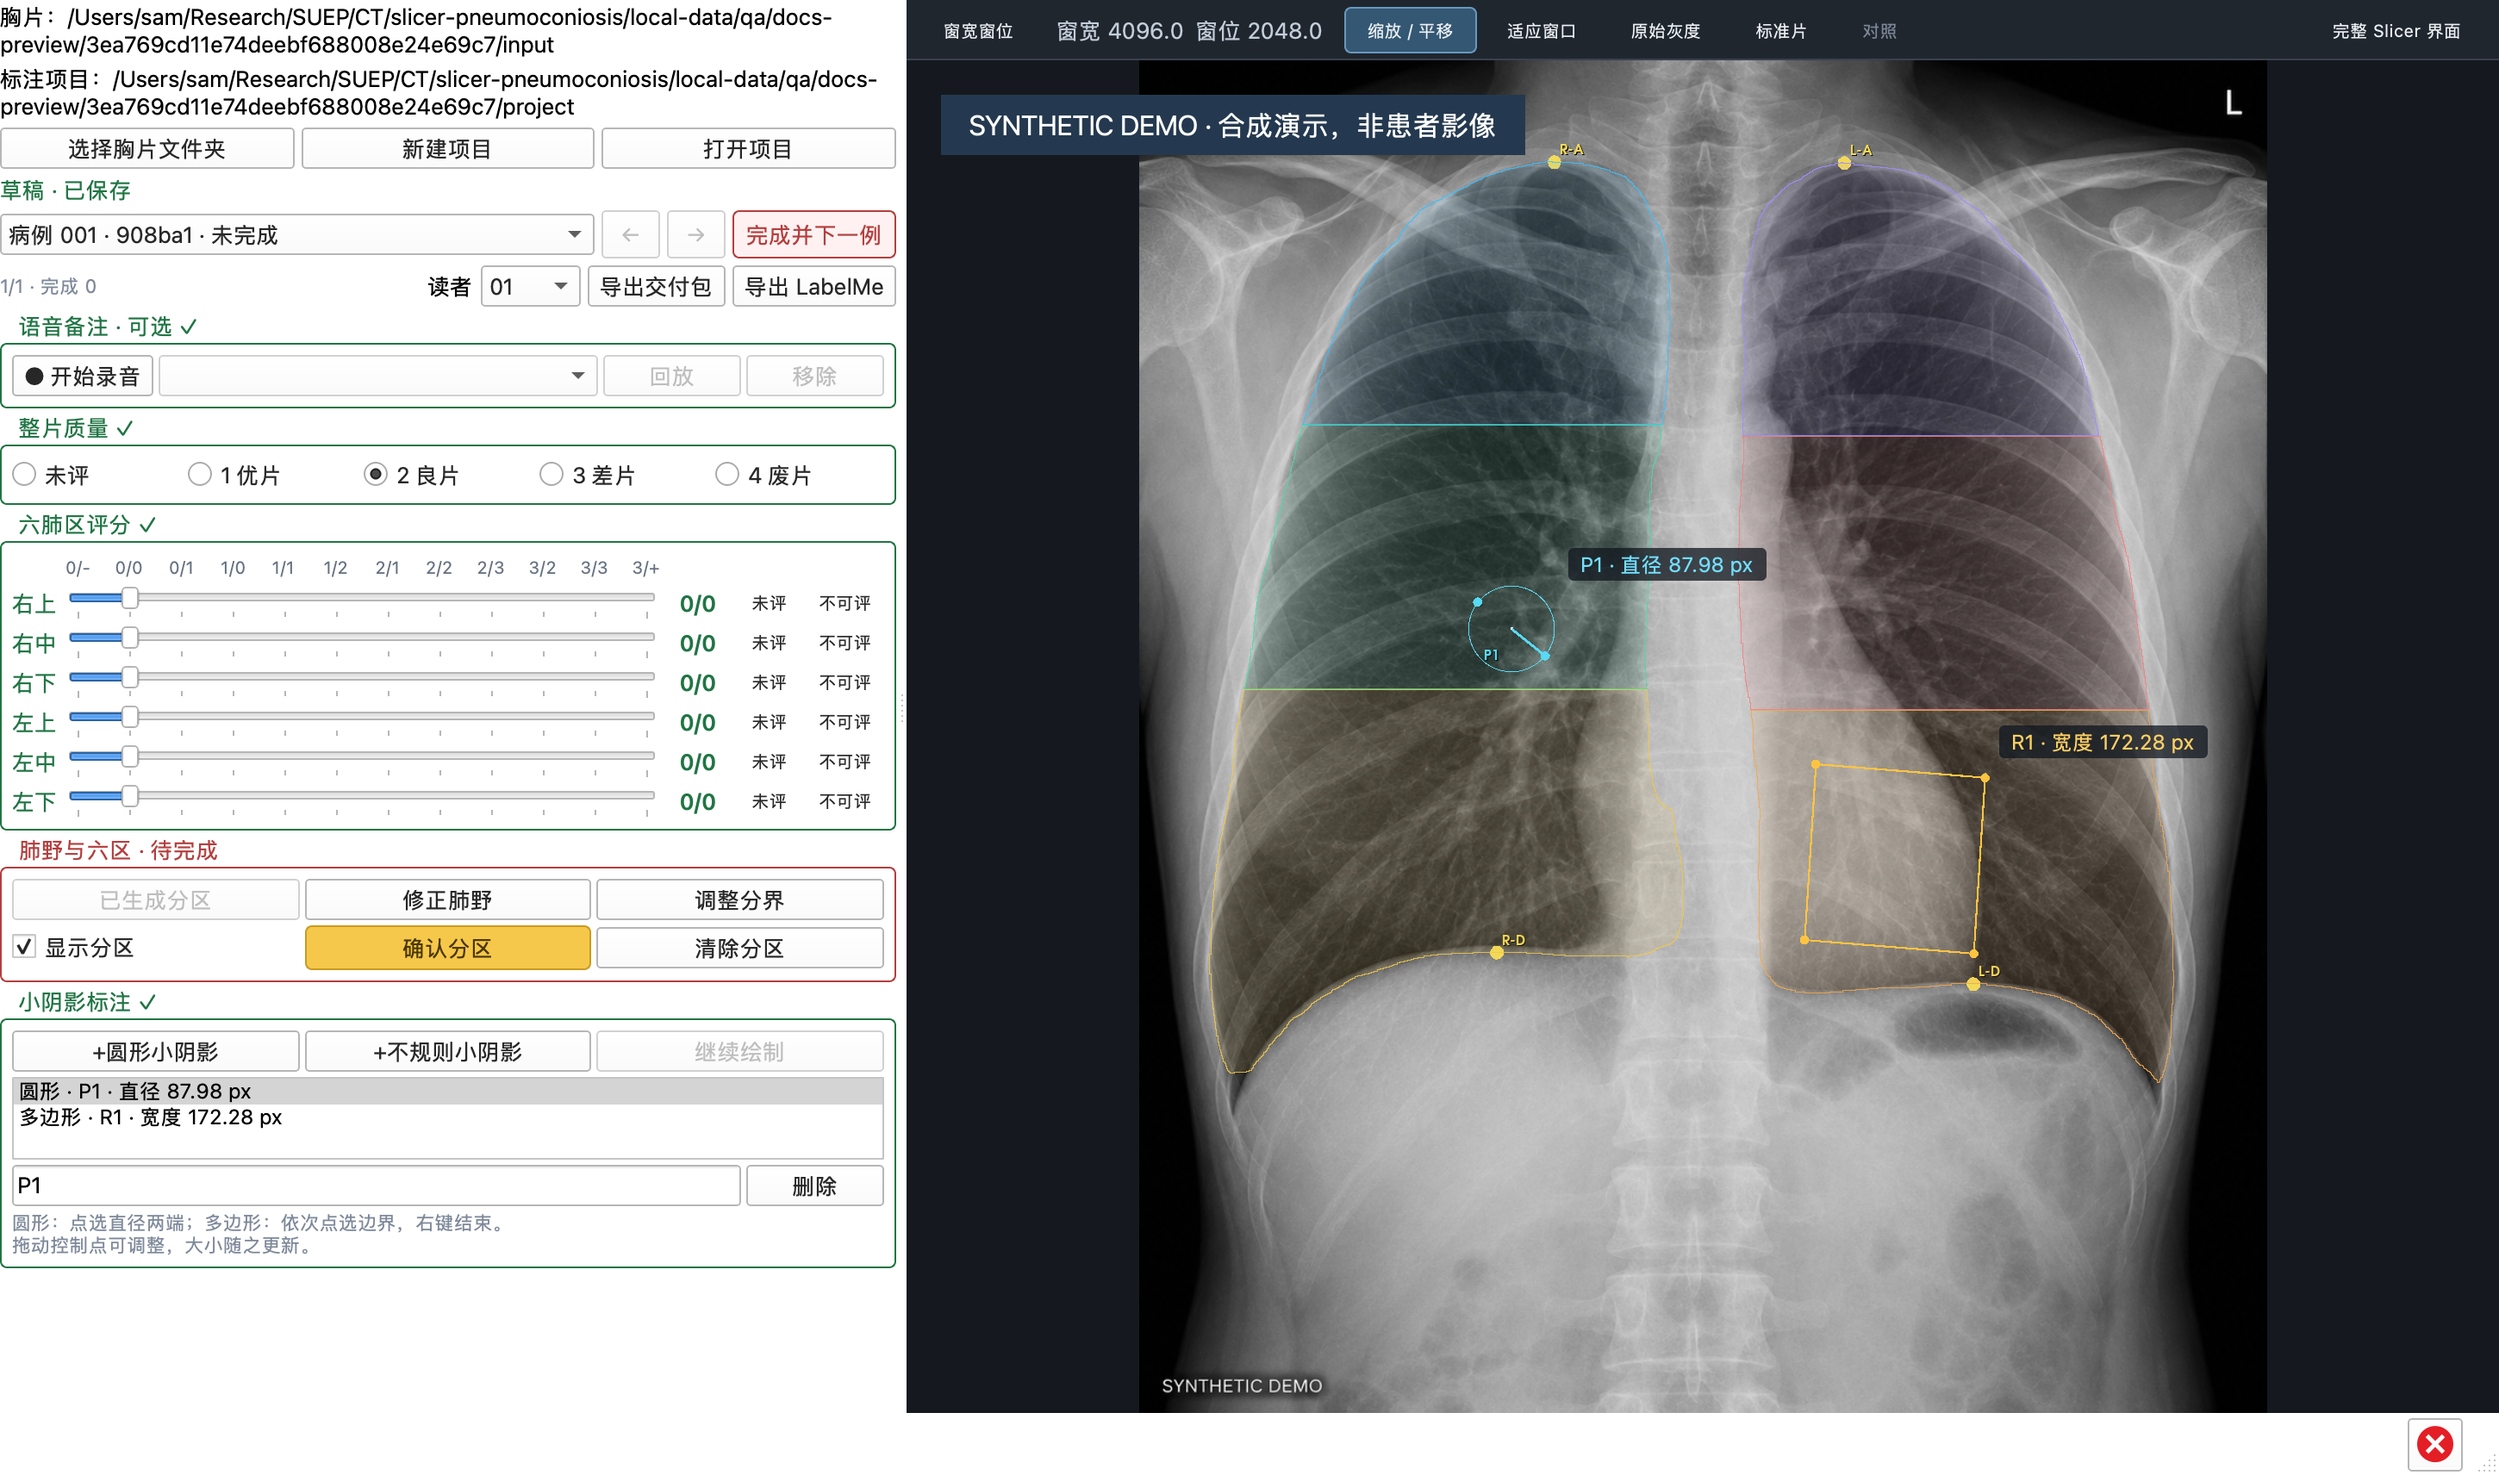
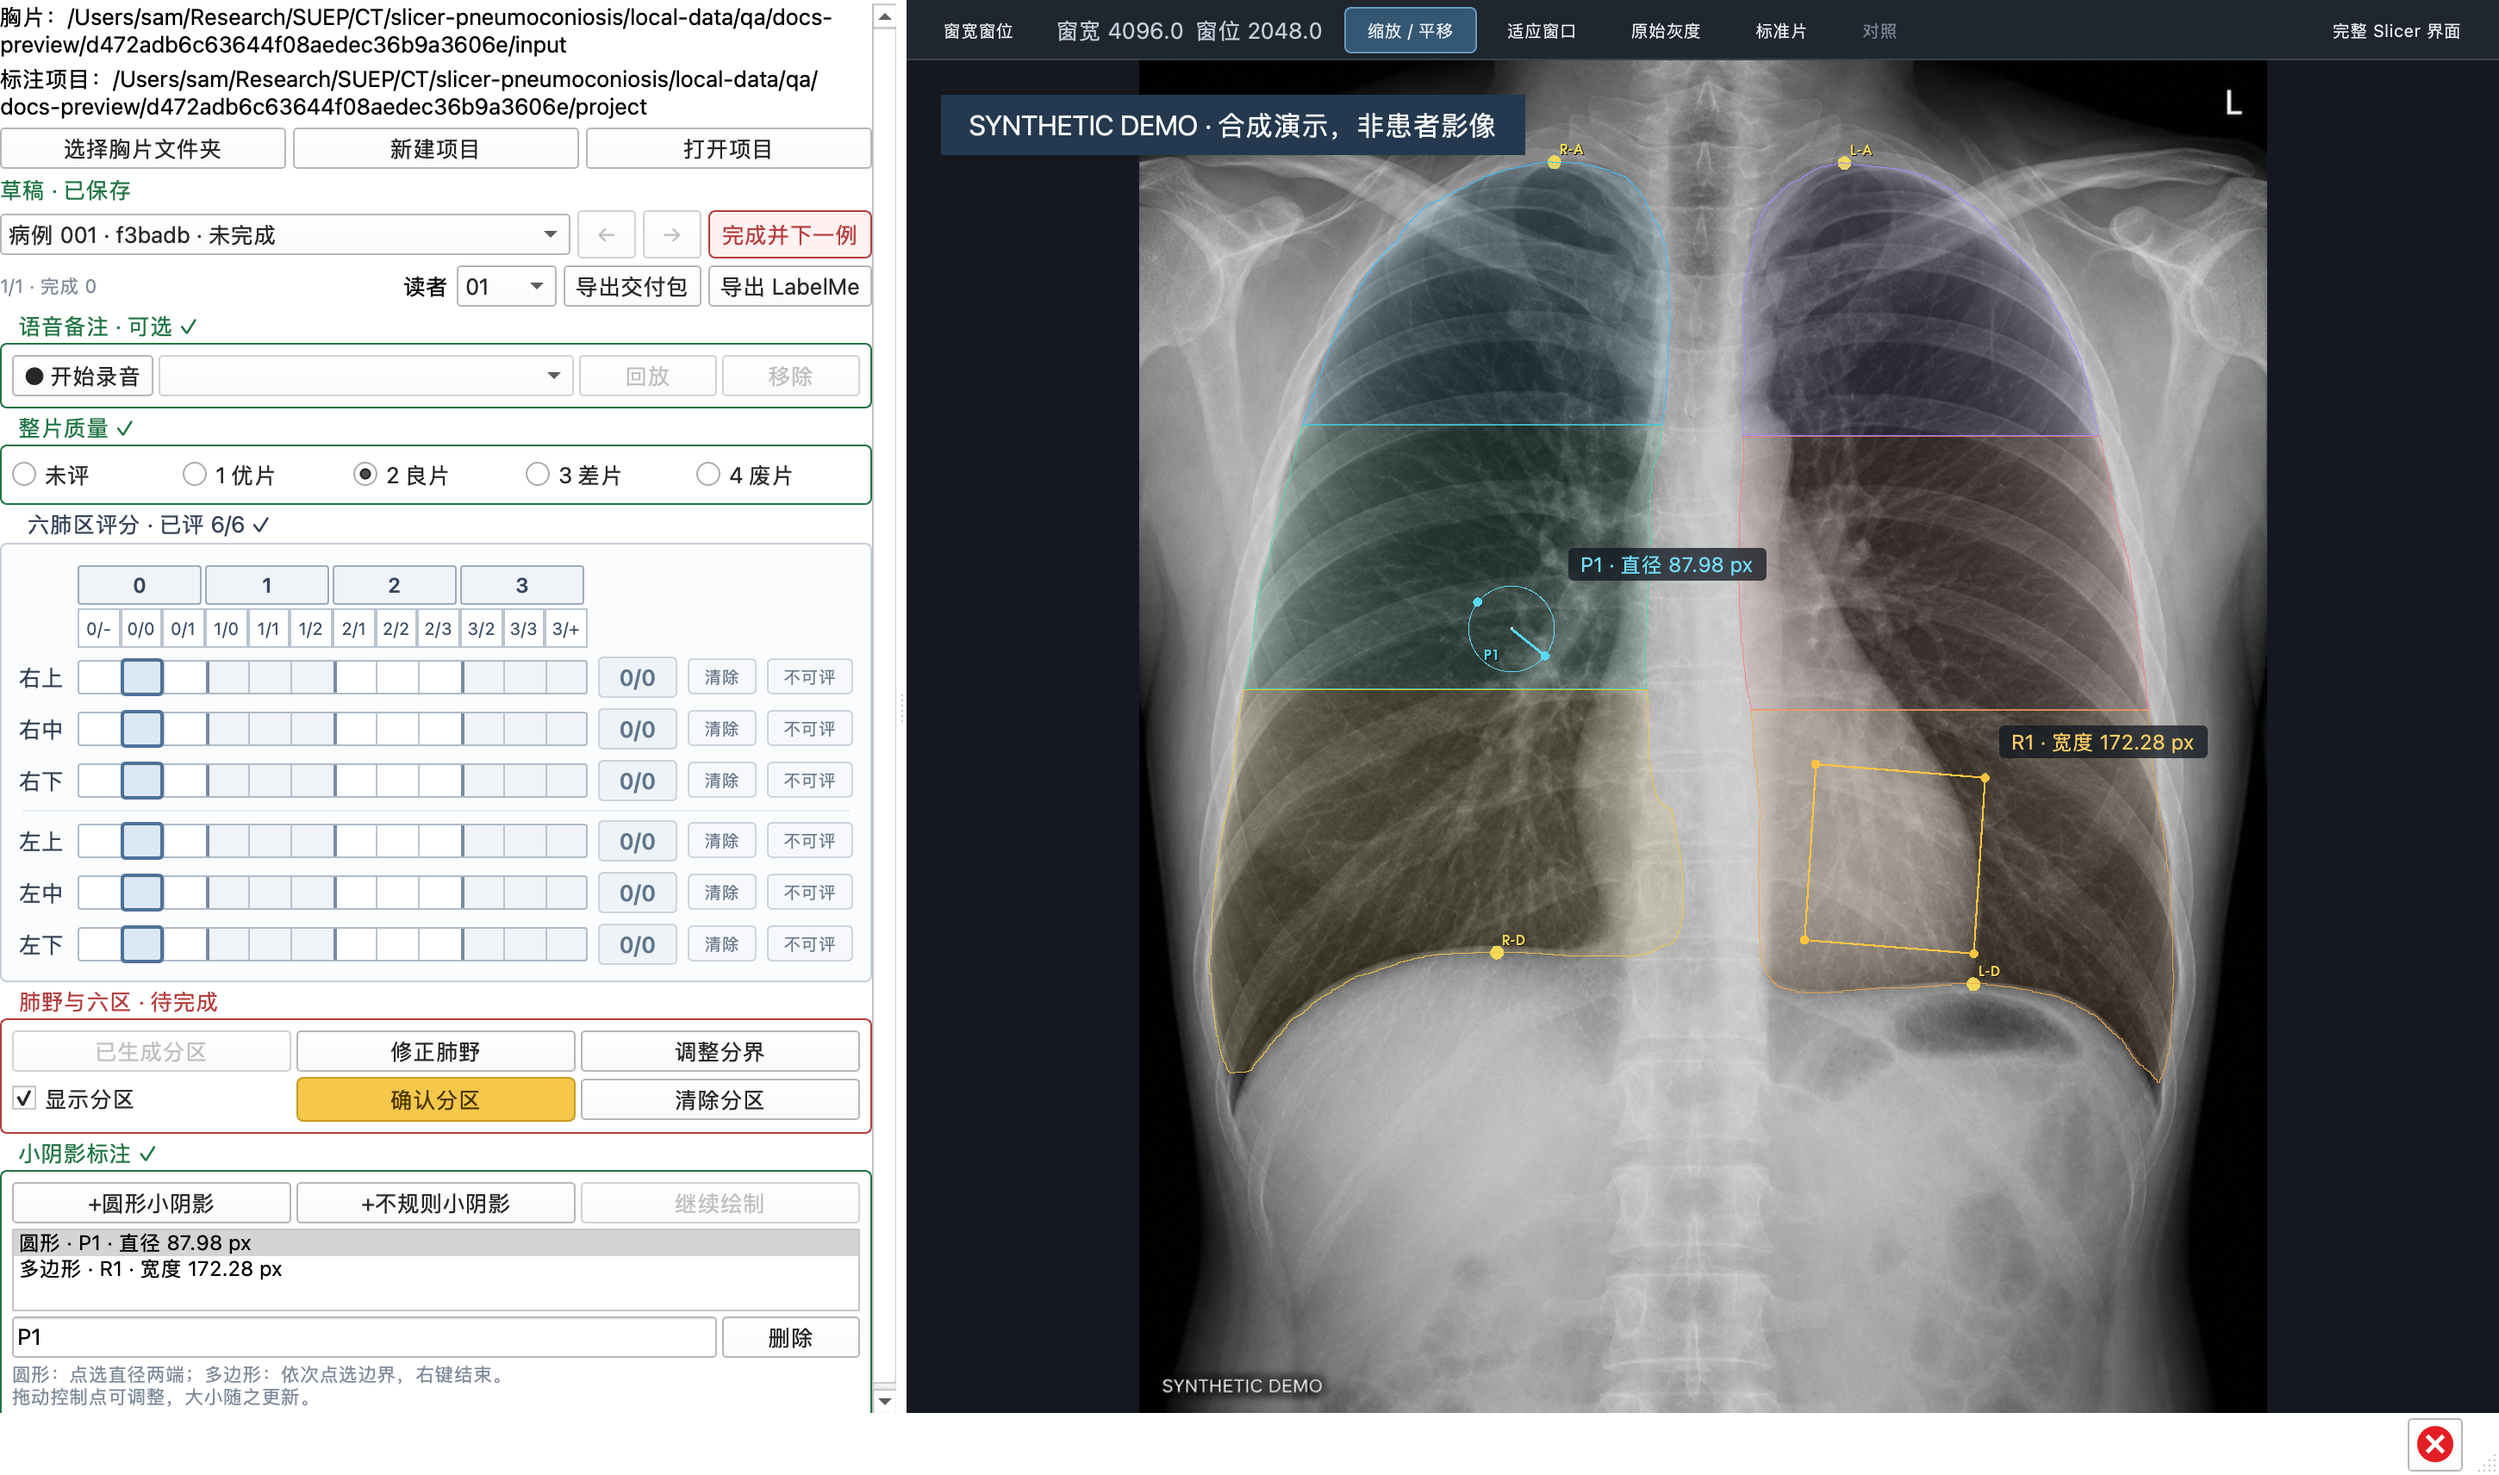
Prepare Windows 0.3.0 release with installed workflow checks

diff --git a/packaging/windows/slicer_package_check.py b/packaging/windows/slicer_package_check.py
@@ -27,7 +27,7 @@ def dismiss_unexpected_dialogs():
     dialog = qt.QApplication.activeModalWidget()
     if dialog is not None and dialog.objectName not in (
             "PneumoCaseDirectoryDialog", "PneumoReferenceDirectoryDialog", "PneumoNewProjectDialog",
-            "PneumoOpenProjectDialog", "PneumoBusyOverlay"):
+            "PneumoOpenProjectDialog", "PneumoLabelmeDirectoryDialog", "PneumoBusyOverlay"):
         unexpected_dialogs.append(str(dialog.windowTitle))
         dialog.close()
 
@@ -149,6 +149,20 @@ try:
     w.fitImage()
     REPORT["chinese_text"] = check_language(w, OUT / "language-check", check, events)
     REPORT["references"] = check_reference_view(w, OUT / "reference-check", check, events)
+    from PneumoconiosisLib.core import GRADES
+    check([label.text for label in w.gradeRuler.headings] == ["0", "1", "2", "3"]
+          and [label.text for label in w.gradeRuler.labels] == list(GRADES),
+          "installed rating ruler groups all twelve grades into four major levels")
+    slider = w.gradeSliders["RU"].slider
+    for step in (8, 2, 11, 0):
+        point = qt.QPoint(round((step + .5) * slider.width / len(GRADES)), slider.height // 2)
+        for kind, held in ((qt.QEvent.MouseButtonPress, qt.Qt.LeftButton), (qt.QEvent.MouseButtonRelease, qt.Qt.NoButton)):
+            event = qt.QMouseEvent(kind, qt.QPointF(point), qt.QPointF(slider.mapToGlobal(point)),
+                                  qt.Qt.LeftButton, held, qt.Qt.NoModifier)
+            slicer.app.sendEvent(slider, event)
+        saved = w.store.get(w.currentRecord["case_id"], w.currentReader)
+        check(slider.value == step and saved["zones"]["RU"]["grade"] == GRADES[step],
+              "installed slider clicks jump to and save " + GRADES[step])
     # The compiled extension must be usable in the relocated, offline installation.
     w.circleButton.click()
     circle = w.markups.nodes[w.markups.selected_id]
@@ -163,6 +177,34 @@ try:
           "bundled ExtraMarkups creates and saves a native circle offline")
     check("直径" in w.markups.labels[w.markups.selected_id].text,
           "native circle displays its measured diameter")
+    destination = OUT / "LabelMe 导出"
+    destination.mkdir()
+    labelme_visits = []
+    def choose_labelme():
+        for dialog in slicer.util.findChildren(window, name="PneumoLabelmeDirectoryDialog"):
+            if dialog.isVisible():
+                labelme_visits.append(True)
+                dialog.setDirectory(str(destination))
+                dialog.accept()
+    selector = qt.QTimer()
+    selector.connect("timeout()", choose_labelme)
+    selector.start(50)
+    try:
+        w.labelmeExport.button.click()
+    finally:
+        selector.stop()
+    check(labelme_visits and w.labelmeExport.worker is not None,
+          "installed LabelMe button selects a Unicode destination and starts its worker")
+    deadline = time.monotonic() + 60
+    while w.labelmeExport.worker is not None and time.monotonic() < deadline:
+        events(.1)
+    check(w.labelmeExport.worker is None and w.labelmeExport.last_result is not None and not w.labelmeExport.last_error,
+          "installed portable worker completes LabelMe export offline")
+    exported = Path(w.labelmeExport.last_result["directory"]) / w.currentReader
+    label = json.loads((exported / (w.currentRecord["case_id"] + ".json")).read_text(encoding="utf-8"))
+    check((exported / label["imagePath"]).is_file() and label["imageWidth"] == columns and label["imageHeight"] == rows
+          and len(label["shapes"]) == 1 and label["shapes"][0]["source_kind"] == "circle",
+          "installed LabelMe export pairs original-size PNG with the saved circle")
     w.deleteMarkupButton.click()
     w.features.qualityChoices.buttons[2].click()
     for slider in w.gradeSliders.values():

diff --git a/scripts/test_windows_installer.py b/scripts/test_windows_installer.py
@@ -135,6 +135,24 @@ def run():
             finally:
                 store.close()
         check(restored() == expected, "GUI annotation survives application shutdown")
+        # Reuse the actual create/reopen/close checks against the installed files.
+        # Each phase gets a new normal Slicer process, including the real close guard.
+        workflow = OUT / "project-workflow"
+        profile = workflow / "profile"
+        profile.mkdir(parents=True)
+        markups = install / "extensions/ExtraMarkups/lib/Slicer-5.13/qt-loadable-modules"
+        workflow_environment = dict(environment, PNEUMO_WORKFLOW_OUT=str(workflow), PNEUMO_DATA_ROOT=str(profile))
+        workflow_environment["PATH"] = str(markups) + os.pathsep + environment["PATH"]
+        for phase in ("create", "reopen"):
+            workflow_environment["PNEUMO_WORKFLOW_PHASE"] = phase
+            with (workflow / (phase + ".log")).open("w", encoding="utf-8") as log:
+                checked([install / "Slicer/Slicer.exe", "--disable-settings", "--ignore-slicerrc", "--no-splash",
+                         "--additional-module-paths", markups, install / "PneumoconiosisAnnotator",
+                         "--python-script", install / "qa/slicer_project_check.py"],
+                        cwd=profile, env=workflow_environment, stdout=log, stderr=subprocess.STDOUT, timeout=180)
+            result = json.loads((workflow / (phase + "-report.json")).read_text(encoding="utf-8"))
+            check(result["status"] == "passed", "installed project workflow passes " + phase + " with normal application exit")
+            REPORT.setdefault("project_workflow", {})[phase] = result
         checked(command + ["/LOG=" + str(OUT / "reinstall.log")], timeout=300)
         check(restored() == expected, "reinstall preserves the external annotation project")
         for path in mesa_files:

diff --git a/scripts/build_windows_installer.py b/scripts/build_windows_installer.py
@@ -85,7 +85,8 @@ def main():
                 "windows": INPUTS["windows"],
                 "slicer": INPUTS["slicer"], "python": sys.version,
                 "model": {"source": WEIGHTS_URL, "sha256": WEIGHTS_SHA256},
-                "data_location": "%LOCALAPPDATA%/PneumoconiosisAnnotator"}
+                "data_locations": {"projects": "User-selected annotation project directory",
+                                   "settings_and_logs": "%LOCALAPPDATA%/PneumoconiosisAnnotator"}}
     (PAYLOAD / "package.json").write_text(json.dumps(metadata, indent=2), encoding="utf-8")
 
     slicer_installer = download(INPUTS["slicer"])
@@ -133,6 +134,7 @@ def main():
     shutil.copy2(ROOT / "packaging/windows/render_check.py", PAYLOAD / "qa/render_check.py")
     shutil.copy2(ROOT / "packaging/windows/reference_check.py", PAYLOAD / "qa/reference_check.py")
     shutil.copy2(ROOT / "packaging/windows/language_check.py", PAYLOAD / "qa/language_check.py")
+    shutil.copy2(ROOT / "scripts/slicer_project_check.py", PAYLOAD / "qa/slicer_project_check.py")
     sys.path.insert(0, str(ROOT / "tests"))
     from synthetic_pipeline import create_dicom
     create_dicom(PAYLOAD / "qa/dicom")

diff --git a/PneumoconiosisAnnotator/PneumoconiosisLib/labelme_export_view.py b/PneumoconiosisAnnotator/PneumoconiosisLib/labelme_export_view.py
@@ -18,7 +18,7 @@ class LabelmeExport:
         self.last_result = self.last_error = None
         self.button = qt.QPushButton("导出 LabelMe")
         self.button.setObjectName("PneumoLabelmeExportButton")
-        self.button.setToolTip("按读者导出胸片 PNG 和椭圆 / 多边形标注，可在 LabelMe 中打开。")
+        self.button.setToolTip("按读者导出胸片 PNG 和圆形 / 多边形标注，可在 LabelMe 中打开。")
         self.button.connect("clicked()", self.choose)
 
     def choose(self):

diff --git a/CHANGELOG.md b/CHANGELOG.md
@@ -2,7 +2,7 @@
 
 按仓库提交记录整理；调试阶段允许破坏性调整，不承诺旧数据兼容。稳定的使用方式见 [使用手册](docs/usage.md)，字段规范见 [数据格式](docs/data-format.md)。
 
-## 未发布
+## 0.3.0 · 2026-10-29
 
 - 六肺区评分面板按 0、1、2、3 分组，标尺和滑轨保留清晰的 12 个分格，并加粗大档位边界；显示评分标记、左右肺分隔和已评数量。
 - 六肺区评分滑条支持点击滑轨直接跳到对应档位，保留拖动和方向键微调，并按实际选择自动保存。
@@ -11,18 +11,14 @@
 - 空白启动；先选原片目录，再明确新建或打开标注项目，核对整批图像身份，支持目录搬迁。界面常驻显示来源、项目位置与保存状态；保存失败阻止切换及退出，专用启动器不再弹场景保存提示。
 - 研究导出明确为医院交付包：原片另交，保留所有实际参与读者、标注和附件；加入交付说明、完成 / 草稿 / 未评统计及文件校验清单。LabelMe 保留独立入口。
 
-- 点工具替换为两角定义的椭圆，更新小阴影按钮说明；图旁显示自动长短径 / 最小卡尺宽度，记录 DICOM 尺度来源并随 schema 5 导出。LabelMe 用多边形近似椭圆并保留原参数。
+- 小阴影改用 ExtraMarkups 原生圆形工具，图旁显示直径；多边形继续使用原生闭合曲线并显示宽度。两种标注按钮排在同一行，尺寸和尺度来源随 schema 6 导出。
+- 含旧版点 / 椭圆标注的病例不自动转换为圆形；遇到旧标注提示时使用独立新项目，旧数据仍保留。
 - 读取目录、换片、切换读者及导出使用统一的全窗口操作提示，成功或失败后恢复输入。
 
-- 新增独立「导出 LabelMe」按钮，后台按读者导出原尺寸胸片 PNG 与当前人工椭圆 / 有效多边形 JSON；记录原片校验、显示转换、病例状态及未完成轮廓的跳过原因，保留原有研究导出入口。
+- 新增独立「导出 LabelMe」按钮，后台按读者导出原尺寸胸片 PNG 与当前人工圆形 / 有效多边形 JSON；非正方形像素上的物理圆用多边形保留形状，并记录原始参数、校验和未完成轮廓的跳过原因。
 - 导出改为日期时间根目录及 `reader-01` 等读者子目录，一次导出当前病例列表中有实际阅片内容的所有读者；排除仅浏览 / 显示调整 / 未审核机器分区产生的记录，保留有真实标注的历史。
 - 导出新增原片对照表 `*-images.csv`，每病例一行，以 `case_id` 关联原片相对路径和导入时的文件 SHA256，保留子目录以区分同名胸片。
-- 新增 Windows x64 离线安装包：内置官方 Slicer、standalone Python、CPU 模型 / 音频依赖及权重，提供桌面启动器；程序与用户数据分离，重装和卸载保留记录。
-- 新增手动打包流程、安装文件哈希验证、阻断联网的安装后合成病例检查、使用软件 OpenGL 的 Slicer 界面检查，以及重装 / 卸载的数据保留检查。成功产物存入未发布版本草稿。
-- 新增 Windows x64 GitHub Actions：安装项目环境，使用 ImageGen 合成胸片执行真实模型推理、跨进程保存恢复及完整导出检查；缓存依赖下载和权重，测试附件保存三天。
-- 重组 README，拆出操作手册及数据规范，集中环境准备、范围和限制说明。
-- 添加 ImageGen 合成胸片及真实插件截图，保留生成提示词和可复现的截图脚本。
-- 为原创代码和文档采用 BSD-3-Clause 许可证，补充 Slicer、模型和参考规范的致谢与来源。
+- Windows 安装包包含与 Slicer 匹配的 ExtraMarkups；安装后检查新增滑轨点击、实际 LabelMe 后台导出，以及跨进程新建 / 恢复项目、保存失败阻止退出和正常关闭检查。
 
 ## 0.2.2 · 2026-10-28
 
